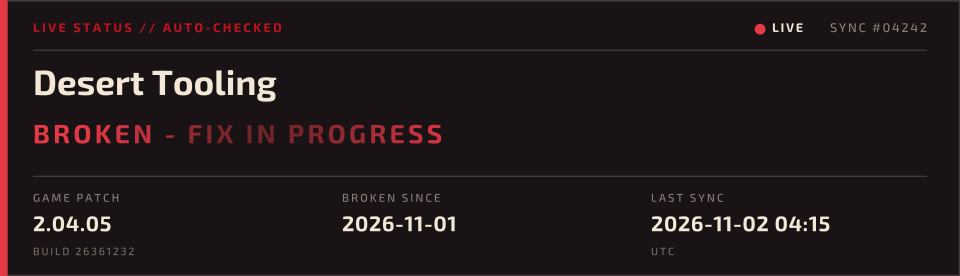
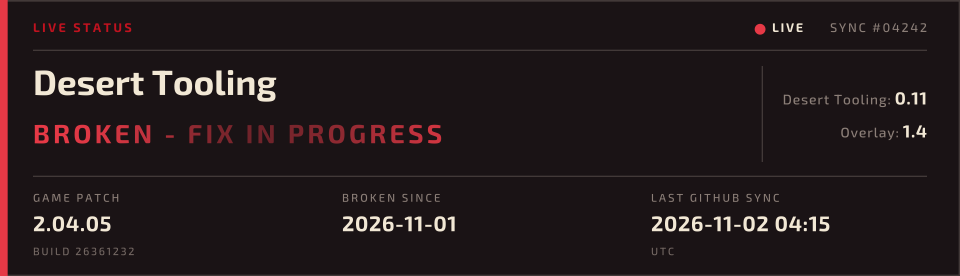
feat: supporting section for mod specific version for up to 3 interal versions

diff --git a/src/render/card.rs b/src/render/card.rs
@@ -2,20 +2,21 @@
 //! with 3x supersampling, 20 frames of 80 ms.
 //!
 //! ```text
-//! ┃ LIVE STATUS // AUTO-CHECKED                    ● LIVE   SYNC #00042
+//! ┃ LIVE STATUS                                    ● LIVE   SYNC #00042
 //! ┃ ───────────────────────────────────────────────────────────────────
-//! ┃ Desert Tooling
-//! ┃ W O R K I N G   (letters pulse left to right)
+//! ┃ Desert Tooling                                   │      Core: 0.11
+//! ┃ W O R K I N G   (letters pulse left to right)    │     Addon: 1.4
 //! ┃ ───────────────────────────────────────────────────────────────────
-//! ┃ GAME PATCH          VERIFIED            LAST SYNC
+//! ┃ GAME PATCH          VERIFIED            LAST GITHUB SYNC
 //! ┃ 2.04.05             2026-11-01          2026-11-02 04:17
 //! ┃ BUILD 26361232                          UTC
 //! ```
 
 use std::f32::consts::TAU;
 
-use super::canvas::{measure, mix, Canvas, Style};
+use super::canvas::{measure, mix, Canvas, Rgb, Style};
 use super::theme::Theme;
+use crate::config::Release;
 use crate::state::Status;
 
 pub const LOGICAL_W: f32 = 640.0;
@@ -45,6 +46,8 @@ pub struct CardData {
     pub sync: u64,
     /// `YYYY-MM-DD HH:MM UTC`, or empty before the first sync.
     pub last_sync: String,
+    /// The mod's own release lines, at most three are drawn.
+    pub releases: Vec<Release>,
 }
 
 /// Logical units -> supersampled canvas pixels.
@@ -69,6 +72,90 @@ fn fit(font: &ab_glyph::FontVec, px: f32, spacing: f32, max_w: f32, text: &str) 
         px
     } else {
         (px * max_w / w).max(px * 0.45)
+    }
+}
+
+/// The release lines: name font size, version font size, line pitch, and the
+/// widest a block may be before it shrinks (all logical units).
+const REL_NAME_PX: f32 = 11.0;
+const REL_VER_PX: f32 = 14.0;
+const REL_PITCH: f32 = 22.0;
+const REL_MAX_W: f32 = 190.0;
+/// Space between the release block's divider and the text to its left.
+const REL_GAP: f32 = 28.0;
+
+/// The release block's lines (at most three), its scale, and its width.
+struct Releases<'a> {
+    lines: Vec<(String, &'a str)>,
+    scale: f32,
+    width: f32,
+}
+
+impl Releases<'_> {
+    /// How much of the title row the block takes, gap included.
+    fn reserved(&self) -> f32 {
+        if self.lines.is_empty() {
+            0.0
+        } else {
+            self.width + REL_GAP
+        }
+    }
+}
+
+fn releases<'a>(card: &'a CardData, theme: &Theme) -> Releases<'a> {
+    let lines: Vec<(String, &str)> = card
+        .releases
+        .iter()
+        .take(crate::config::MAX_RELEASES)
+        .map(|r| (format!("{}: ", r.name), r.version.as_str()))
+        .collect();
+    let widest = lines
+        .iter()
+        .map(|(name, ver)| {
+            (measure(st(&theme.body_font, u(REL_NAME_PX), u(0.6)), name)
+                + measure(st(&theme.title_font, u(REL_VER_PX), u(0.4)), ver))
+                / K
+        })
+        .fold(0.0_f32, f32::max);
+    let scale = if widest > REL_MAX_W {
+        (REL_MAX_W / widest).max(0.5)
+    } else {
+        1.0
+    };
+    Releases {
+        lines,
+        scale,
+        width: widest * scale,
+    }
+}
+
+/// Right-aligned `<name>: <version>` lines, centred between the two rules,
+/// with a hairline divider on their left.
+fn draw_releases(c: &mut Canvas, rel: &Releases<'_>, theme: &Theme, rule: Rgb) {
+    let n = rel.lines.len();
+    if n == 0 {
+        return;
+    }
+    let (name_px, ver_px) = (REL_NAME_PX * rel.scale, REL_VER_PX * rel.scale);
+    let block_h = (n - 1) as f32 * REL_PITCH + REL_VER_PX;
+    let top = 76.0 - block_h * 0.5;
+    let div_x = MARGIN_R - rel.width - REL_GAP * 0.5;
+    c.fill_rect(u(div_x), u(44.0), u(div_x + 1.0), u(108.0), rule);
+    for (i, (name, ver)) in rel.lines.iter().enumerate() {
+        let y = top + i as f32 * REL_PITCH;
+        let ver_style = st(&theme.title_font, u(ver_px), u(0.4));
+        let name_style = st(&theme.body_font, u(name_px), u(0.6));
+        let ver_x = u(MARGIN_R) - measure(ver_style, ver);
+        let name_x = ver_x - measure(name_style, name);
+        // Sit the smaller name on the version's baseline.
+        c.text(
+            name_style,
+            name_x,
+            u(y + (ver_px - name_px) * 0.8),
+            name,
+            theme.dim,
+        );
+        c.text(ver_style, ver_x, u(y), ver, theme.text);
     }
 }
 
@@ -111,8 +198,16 @@ fn base(card: &CardData, theme: &Theme) -> Canvas {
 
     c.fill_rect(u(MARGIN_L), u(33.0), u(MARGIN_R), u(34.0), rule);
 
-    // Mod title.
-    let label_px = fit(title, 28.0, 0.0, MARGIN_R - MARGIN_L, &card.label);
+    // Release lines on the right, then the mod title in what is left.
+    let rel = releases(card, theme);
+    draw_releases(&mut c, &rel, theme, rule);
+    let label_px = fit(
+        title,
+        28.0,
+        0.0,
+        MARGIN_R - MARGIN_L - rel.reserved(),
+        &card.label,
+    );
     c.text(
         st(title, u(label_px), 0.0),
         u(MARGIN_L),
@@ -142,7 +237,7 @@ fn base(card: &CardData, theme: &Theme) -> Canvas {
     let columns = [
         ("GAME PATCH", patch, patch_sub),
         (card.status.since_label(), card.since.clone(), since_sub),
-        ("LAST SYNC", sync_value, sync_sub),
+        ("LAST GITHUB SYNC", sync_value, sync_sub),
     ];
     for (x, (label, value, sub)) in COLS.iter().zip(columns) {
         c.text(st(body, u(9.0), u(1.4)), u(*x), u(127.0), label, theme.dim);
@@ -185,9 +280,10 @@ pub fn render(card: &CardData, theme: &Theme) -> Vec<Canvas> {
     } else {
         format!("//  {}", card.note)
     };
-    let head_px = fit(title, 21.0, 2.2, MARGIN_R - MARGIN_L, headline);
+    let room = MARGIN_R - MARGIN_L - releases(card, theme).reserved();
+    let head_px = fit(title, 21.0, 2.2, room, headline);
     let head_w = measure(st(title, u(head_px), u(2.2)), headline) / K;
-    let note_room = MARGIN_R - MARGIN_L - head_w - 14.0;
+    let note_room = room - head_w - 14.0;
     let note_px = fit(body, 11.0, 0.6, note_room.max(1.0), &note);
     let n = headline.chars().count();
 

diff --git a/src/config.rs b/src/config.rs
@@ -77,7 +77,7 @@ fn default_theme() -> String {
     "nexus".into()
 }
 fn default_title_prefix() -> String {
-    "LIVE STATUS // AUTO-CHECKED".into()
+    "LIVE STATUS".into()
 }
 
 /// One mod: what it was verified on and what to show either way.
@@ -99,6 +99,21 @@ pub struct ModDecl {
     pub on_update: Status,
     #[serde(default)]
     pub note: String,
+    /// Up to [`MAX_RELEASES`] lines drawn on the card as `<name>: <version>`,
+    /// e.g. the mod's own release and a companion part's.
+    #[serde(default)]
+    pub releases: Vec<Release>,
+}
+
+/// The most `releases` a card has room for.
+pub const MAX_RELEASES: usize = 3;
+
+/// One `<name>: <version>` line on the card.
+#[derive(Debug, Clone, PartialEq, Eq, Deserialize)]
+#[serde(deny_unknown_fields)]
+pub struct Release {
+    pub name: String,
+    pub version: String,
 }
 
 fn default_status() -> Status {
@@ -182,6 +197,18 @@ impl Config {
                     m.on_update.as_str()
                 );
             }
+            if m.releases.len() > MAX_RELEASES {
+                bail!(
+                    "mod {:?}: {} releases; the card has room for {MAX_RELEASES}",
+                    m.key,
+                    m.releases.len()
+                );
+            }
+            for r in &m.releases {
+                if r.name.trim().is_empty() || r.version.trim().is_empty() {
+                    bail!("mod {:?}: each release needs a name and a version", m.key);
+                }
+            }
         }
         Ok(())
     }
@@ -221,10 +248,25 @@ date = "2026-11-01"
         let cfg = Config::parse(EXAMPLE).unwrap();
         assert!(matches!(cfg.source, SourceConfig::Steam { app_id: 3321460, .. }));
         assert_eq!(cfg.render.layout, "card");
-        assert_eq!(cfg.render.title_prefix, "LIVE STATUS // AUTO-CHECKED");
+        assert_eq!(cfg.render.title_prefix, "LIVE STATUS");
         let m = cfg.find("desert-tooling").unwrap();
         assert_eq!(m.status, Status::Working);
         assert_eq!(m.on_update, Status::Untested);
+    }
+
+    #[test]
+    fn releases_parse() {
+        let text = EXAMPLE.replace(
+            "date = \"2026-11-01\"",
+            "date = \"2026-11-01\"\nreleases = [{ name = \"Core\", version = \"0.11\" }, \
+             { name = \"Addon\", version = \"1.4\" }]",
+        );
+        let cfg = Config::parse(&text).unwrap();
+        let m = cfg.find("desert-tooling").unwrap();
+        assert_eq!(m.releases.len(), 2);
+        assert_eq!(m.releases[1].name, "Addon");
+        assert_eq!(m.releases[1].version, "1.4");
+        assert!(Config::parse(EXAMPLE).unwrap().mods[0].releases.is_empty());
     }
 
     #[test]
@@ -253,6 +295,16 @@ date = "2026-11-01"
             ),
             ("date = \"2026-11-01\"", "date = \"2026-11-01\"\ncolour = \"red\""),
             ("theme = \"crimson-desert\"", "layout = \"strip\""),
+            (
+                "date = \"2026-11-01\"",
+                "date = \"2026-11-01\"\nreleases = [{ name = \"A\", version = \"\" }]",
+            ),
+            (
+                "date = \"2026-11-01\"",
+                "date = \"2026-11-01\"\nreleases = [{ name = \"A\", version = \"1\" }, \
+                 { name = \"B\", version = \"1\" }, { name = \"C\", version = \"1\" }, \
+                 { name = \"D\", version = \"1\" }]",
+            ),
             (
                 "app_id = 3321460",
                 "app_id = 3321460\nversion_regex = \"no group\"",

diff --git a/src/main.rs b/src/main.rs
@@ -10,7 +10,7 @@ use anyhow::{bail, Context, Result};
 use clap::{Parser, Subcommand};
 
 use baise::clock::Timestamp;
-use baise::config::Config;
+use baise::config::{Config, Release};
 use baise::outputs;
 use baise::render::{CardData, Theme};
 use baise::source::{self, manual::Manual, GameVersion, Source};
@@ -247,6 +247,7 @@ fn draw_all(cfg: &Config, common: &Common, state: &State, current: &GameVersion)
             verified_build: decl.build.clone(),
             sync: state.sync,
             last_sync: last_sync.clone(),
+            releases: decl.releases.clone(),
         };
         let w = outputs::write_mod(&common.out, &decl.key, &data, &theme)?;
         let why = match r.origin {
@@ -283,7 +284,7 @@ fn preview(out: &Path) -> Result<()> {
         for status in Status::ALL {
             let moved = status == Status::Untested;
             let data = CardData {
-                title_prefix: "LIVE STATUS // AUTO-CHECKED".into(),
+                title_prefix: "LIVE STATUS".into(),
                 label: "Desert Tooling".into(),
                 status,
                 since: if moved {
@@ -305,6 +306,16 @@ fn preview(out: &Path) -> Result<()> {
                 verified_build: "26361232".into(),
                 sync: 4242,
                 last_sync: "2026-11-02 04:15 UTC".into(),
+                releases: vec![
+                    Release {
+                        name: "Desert Tooling".into(),
+                        version: "0.11".into(),
+                    },
+                    Release {
+                        name: "Overlay".into(),
+                        version: "1.4".into(),
+                    },
+                ],
             };
             let key = format!("{name}-{status}");
             let w = outputs::write_mod(out, &key, &data, &theme)?;

diff --git a/tests/render.rs b/tests/render.rs
@@ -10,7 +10,7 @@ use baise::state::Status;
 
 fn sample(status: Status) -> CardData {
     CardData {
-        title_prefix: "LIVE STATUS // AUTO-CHECKED".into(),
+        title_prefix: "LIVE STATUS".into(),
         label: "Desert Tooling".into(),
         status,
         since: "2026-11-01".into(),
@@ -20,6 +20,7 @@ fn sample(status: Status) -> CardData {
         verified_build: "26361232".into(),
         sync: 42,
         last_sync: "2026-11-02 04:15 UTC".into(),
+        releases: Vec::new(),
     }
 }
 

diff --git a/tests/state.rs b/tests/state.rs
@@ -21,6 +21,7 @@ fn decl(on_update: Status) -> ModDecl {
         status: Status::Working,
         on_update,
         note: String::new(),
+        releases: Vec::new(),
     }
 }
 

diff --git a/README.md b/README.md
@@ -103,7 +103,7 @@ version_regex = '(?i)patch notes.*?version\s*(\d+(?:\.\d+)+)'   # optional; this
 [render]
 layout = "card"
 theme = "crimson-desert"        # or "nexus", or "./my-theme.toml"
-title_prefix = "LIVE STATUS // AUTO-CHECKED"
+title_prefix = "LIVE STATUS"
 
 [[mod]]
 key = "desert-tooling"          # file names: desert-tooling.gif / .png / .json
@@ -113,6 +113,10 @@ date = "2026-11-01"             # when
 status = "working"              # working | broken | wip    (shown while the build matches)
 on_update = "untested"          # untested | broken         (shown once Steam moves)
 note = ""                       # optional one-liner next to the status
+releases = [                    # optional, up to 3 lines on the card: "<name>: <version>"
+  { name = "Desert Tooling", version = "0.11" },
+  { name = "Overlay",        version = "1.4" },
+]
 ```
 
 `version_regex` runs over the titles of the game's Steam announcements, newest first; group 1 is
